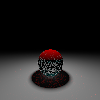
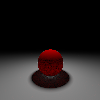
Improved GI implementation
Improved GI implementation
Cleaned up the "shadingFunctions.py file

diff --git a/shadingFunctions.py b/shadingFunctions.py
@@ -60,235 +60,6 @@ def shadeObject(point, lightPos, material, rayDir, hit, reflectionIter=1, bounce
     sceneCol = (material[0]*(dif + 0.15) + ((reflectionMaterial[0]*spec*2.0)*(1-material[1])))*atten
     return sceneCol#gi+sceneCol#(s[1])#material[0] * (s[1]*50) #sceneCol
 
-def shadeObjectGI(point, lightPos, material, rayDir, hit, reflectionIter=1, bounceWeight=1, bounces=[1, 1], bouncesOrig=[1, 1], samples=[1, 0]): # Calculate shading for a pixel
-    lightPos = np.array(lightPos)
-    point = np.array(point)
-    lightDir = np.array(normalize(lightPos-point))
-    normal = -np.array(calculateNormal(point)) if sdf_scene(point, outputMode=2) else np.array(calculateNormal(point))
-    lightDist = length(point, lightPos)
-
-    rayOffset = 0.02
-
-    #colour = np.array([1, 0, 0])
-
-    # Create simple diffuse shading
-    lambert = np.dot(normal, lightDir)
-    s = rayMarch(point+normal*rayOffset, lightDir, k=10, maxSteps=200, mode=[0, 5]) # Get shadow
-    #s[1] = (s[1]+7)*(1/7)#0 if s[0]-lightDist < -7 else 1
-
-    # Diffuse shading
-    dif = lambert * s[1]
-    dif = np.array([dif, dif, dif])
-
-    # Debugging Data
-    lambert = np.array([lambert, lambert, lambert])
-    s[1] = np.array([s[1], s[1], s[1]])
-
-    # Specular shading
-    if reflectionIter > 0:
-        # Trace reflection
-        # based on math.stackexchange.com/questions/13261/how-to-get-a-reflection-vector
-        reflectionVector = reflect(rayDir, normal)
-        reflectionDist, reflectionEnd, reflectionHit, reflectionMaterial = rayMarch(point+normal*rayOffset, reflectionVector, maxSteps=20, mode=[0, 1, 2, 6])
-    
-        # Specular shade
-        spec = shadeObject(reflectionEnd, lightPos, reflectionMaterial, reflectionVector, reflectionHit, reflectionIter=reflectionIter-1)
-        #spec = pow(max(np.dot(reflect(-lightDir, calculateNormal(reflectionEnd)), -reflectionVector), 0.0), 8.0)
-    else:
-        spec = 1.0
-        spec = np.array([spec, spec, spec])
-        reflectionEnd = point
-        reflectionMaterial = material
-        roughness = 1.0
-    #atten = (1.0 / ((lightDist)**2)) # Inverse square law
-    #atten = exp(-lightDist)*10 # Exponent of lightDist multiplied by 10 - similar to inverse square law but no infinity
-    atten = 1.0 / (1.0 + lightDist*0.2 + lightDist*lightDist*0.1) # copied - for reference
-    lightStrength = 1
-    atten = atten * lightStrength
-
-    # Below based on https://www.shadertoy.com/view/Xtt3Wn - it's kinda slow if you open the link
-
-    # Global Illumination / Diffuse Bounces
-    if bounces[1] > 0:
-        difGI = dif#np.array([0., 0., 0.])
-        difSample = np.array([0., 0., 0.])
-        samplesTaken = 1
-        for sample in range(samples[1]):
-            seed = (bounces[1] + sample)**2
-            rayDirGI = cosineWeightedHemisphere(calculateNormal(point), seed=seed)
-            pointGI, hitGI, stepsTakenGI, materialGI = rayMarch(point+calculateNormal(point)*0.02, rayDir, 50, mode=[1, 2, 4, 6])
-            bouncesNew = bounces
-            bouncesNew[1] = bouncesNew[1]-1
-            if hitGI:
-                calcSample = shadeObjectGI(pointGI, lightPos, materialGI, rayDirGI, hitGI, reflectionIter=bounces[0], bounces=bounces, bouncesOrig=bouncesOrig, samples=samples, bounceWeight=bounceWeight/2)
-                difSample = difSample + calcSample
-                samplesTaken += 1
-        difGI = difGI + ((difSample/samplesTaken)*bounceWeight)
-    else:
-        difGI = [1., 1., 1.]
-        materialGI = [[0., 0., 0.], 0.]
-
-    # [giDist, giDist, giDist]
-    sceneCol = (materialGI[0]*np.array(difGI))
-    #sceneCol = (material[0]*(dif + 0.15) + ((reflectionMaterial[0]*spec*2.0)*(1-material[1])))*atten
-    return sceneCol#sceneCol#gi+sceneCol#(s[1])#material[0] * (s[1]*50) #sceneCol
-
-def shadeObjectGIold(point, lightPos, material, rayDir, camPos, hit, reflectionIter=1, bounces=[1, 1], samples=[1, 1]): # Calculate shading for a pixel
-    rayOffset = 0.02
-
-    #colour = np.array([1, 0, 0])
-    # Save original ray data
-    oRayDir = rayDir
-    oCamPos = camPos
-
-    accumulatedColour = np.array([1., 1., 1.])
-
-    for x in range(bounces[1]):
-        lightPos = np.array(lightPos)
-        point = np.array(point)
-        lightDir = np.array(normalize(lightPos-point))
-        normal = -np.array(calculateNormal(point)) if sdf_scene(point, outputMode=2) else np.array(calculateNormal(point))
-        lightDist = length(point, lightPos)
-
-        # Create simple diffuse shading
-        lambert = np.dot(normal, lightDir)
-        s = rayMarch(point+normal*rayOffset, lightDir, k=10, maxSteps=200, mode=[0, 5]) # Get shadow
-        #s[1] = (s[1]+7)*(1/7)#0 if s[0]-lightDist < -7 else 1
-    
-        # Diffuse shading
-        dif = lambert * s[1]
-        dif = np.array([dif, dif, dif])
-    
-        # Debugging Data
-        lambert = np.array([lambert, lambert, lambert])
-        s[1] = np.array([s[1], s[1], s[1]])
-    
-        # Specular shading
-        if reflectionIter > 0:
-            # Trace reflection
-            # based on math.stackexchange.com/questions/13261/how-to-get-a-reflection-vector
-            reflectionVector = reflect(rayDir, normal)
-            reflectionDist, reflectionEnd, reflectionHit, reflectionMaterial = rayMarch(point+normal*rayOffset, reflectionVector, maxSteps=20, mode=[0, 1, 2, 6])
-        
-            # Specular shade
-            spec = shadeObject(reflectionEnd, lightPos, reflectionMaterial, reflectionVector, reflectionHit, reflectionIter=reflectionIter-1)
-            #spec = pow(max(np.dot(reflect(-lightDir, calculateNormal(reflectionEnd)), -reflectionVector), 0.0), 8.0)
-        else:
-            spec = 1.0
-            spec = np.array([spec, spec, spec])
-            reflectionEnd = point
-            reflectionMaterial = material
-            roughness = 1.0
-        #atten = (1.0 / ((lightDist)**2)) # Inverse square law
-        #atten = exp(-lightDist)*10 # Exponent of lightDist multiplied by 10 - similar to inverse square law but no infinity
-        atten = 1.0 / (1.0 + lightDist*0.2 + lightDist*lightDist*0.1) # copied - for reference
-        lightStrength = 1
-        atten = atten * lightStrength
-        sceneCol = (material[0]*(dif + 0.15) + ((reflectionMaterial[0]*spec*2.0)*(1-material[1])))*atten
-        # Add ray colour to accumulatedColour
-        weight = 1 if x==0 else 0.5 # Calculate ray weight
-        accumulatedColour += sceneCol#*weight
-
-        # Calculate new ray
-        avgMat = [np.array([0, 0, 0]), 0]
-        for sampleIndex in range(samples[1]):
-            camPos = point
-            seed = sampleIndex+accumulatedColour[0]#*(rayDir[0]+rayDir[1]-rayDir[2])
-            rayDir = cosineWeightedHemisphere(calculateNormal(point), seed=seed)
-            point, material = rayMarch(camPos+normal*rayOffset, rayDir, 50, mode=[1, 6])
-            #avgMat[0] = np.array(avgMat[0]) + material[0]
-            #avgMat[1] += material[1]
-
-        
-        # Calculate average material from samples
-        #avgMat[0] = np.array(avgMat[0]) / (samples[1]+1)
-        #avgMat[1] /= (samples[1]+1)
-
-       #material = avgMat
-
-    if max(accumulatedColour) > 1:
-        print(accumulatedColour)
-
-    sceneCol = accumulatedColour
-    return sceneCol#material[0]#gi+sceneCol#(s[1])#material[0] * (s[1]*50) #sceneCol
-
-def shadeObjectGInew(point, lightPos, material, rayDir, hit, reflectionIter=1, bounces=[1, 1], samples=[1, 1]): # Calculate shading for a pixel
-    if not hit:
-        return np.array([0, 0, 0])
-    origPoint = point
-    origRayDir = rayDir
-    sceneColListTotal = []
-    for sample in range(samples[1]):
-        sceneColList = []
-        for bounce in range(bounces[1]+1):
-            giSeed = sample+bounce+(origPoint[0]+origPoint[1]+origPoint[2])
-            lightPos = np.array(lightPos)
-            point = np.array(point)
-            lightDir = np.array(normalize(lightPos-point))
-            normal = -np.array(calculateNormal(point)) if sdf_scene(point, outputMode=2) else np.array(calculateNormal(point))
-            lightDist = length(point, lightPos)
-        
-            rayOffset = 0.02
-        
-            #colour = np.array([1, 0, 0])
-        
-            # Create simple diffuse shading
-            lambert = np.dot(normal, lightDir)
-            s = rayMarch(point+normal*rayOffset, lightDir, k=10, maxSteps=200, mode=[0, 5]) # Get shadow
-            #s[1] = (s[1]+7)*(1/7)#0 if s[0]-lightDist < -7 else 1
-        
-            # Diffuse shading
-            dif = lambert * s[1]
-            dif = np.array([dif, dif, dif])
-        
-            # Debugging Data
-            lambert = np.array([lambert, lambert, lambert])
-            s[1] = np.array([s[1], s[1], s[1]])
-        
-            # Specular shading
-            if reflectionIter > 0:
-                # Trace reflection
-                # based on math.stackexchange.com/questions/13261/how-to-get-a-reflection-vector
-                reflectionVector = reflect(rayDir, normal)
-                reflectionDist, reflectionEnd, reflectionHit, reflectionMaterial = rayMarch(point+normal*rayOffset, reflectionVector, maxSteps=20, mode=[0, 1, 2, 6])
-            
-                # Specular shade
-                spec = shadeObject(reflectionEnd, lightPos, reflectionMaterial, reflectionVector, reflectionHit, reflectionIter=reflectionIter-1)
-                #spec = pow(max(np.dot(reflect(-lightDir, calculateNormal(reflectionEnd)), -reflectionVector), 0.0), 8.0)
-            else:
-                spec = 1.0
-                spec = np.array([spec, spec, spec])
-                reflectionEnd = point
-                reflectionMaterial = material
-                roughness = 1.0
-            #atten = (1.0 / ((lightDist)**2)) # Inverse square law
-            #atten = exp(-lightDist)*10 # Exponent of lightDist multiplied by 10 - similar to inverse square law but no infinity
-            atten = 1.0 / (1.0 + lightDist*0.2 + lightDist*lightDist*0.1) # copied - for reference
-            lightStrength = 1
-            atten = atten * lightStrength
-        
-            # [giDist, giDist, giDist]
-            sceneCol = (material[0]*(dif + 0.15) + ((reflectionMaterial[0]*spec*2.0)*(1-material[1])))*atten
-            sceneColList.append(sceneCol)
-
-            # Calculate next ray
-            rayDir = cosineWeightedHemisphere(calculateNormal(point), seed=giSeed)
-            point, hit, stepsTaken, material = rayMarch(point+calculateNormal(point)*0.02, rayDir, 50, mode=[1, 2, 4, 6])
-        #sceneCol = np.array([0, 0, 0])
-        sceneCol = sceneColList[0]
-        colWeight = 1
-        for col in sceneColList[::-1]:
-            sceneCol = (sceneCol+col)/2#sceneCol+(col*colWeight)
-            colWeight *= 0.8
-        sceneColListTotal.append(sceneCol)
-    #sceneCol = np.array([0, 0, 0])
-    sceneCol = sceneColListTotal[0]
-    colWeight = 1
-    for col in sceneColListTotal[::-1]:
-        sceneCol = (sceneCol+col)/2#sceneCol+(col*colWeight)
-        colWeight *= 0.8
-    return sceneCol#gi+sceneCol#(s[1])#material[0] * (s[1]*50) #sceneCol
-
 def shadeObjectSB(point, lightPos, material, rayDir, hit, reflectionIter=1, bounces=[1, 1], samples=[1, 1]): # Calculate shading for a pixel
     lightPos = np.array(lightPos)
     point = np.array(point)
@@ -313,22 +84,6 @@ def shadeObjectSB(point, lightPos, material, rayDir, hit, reflectionIter=1, boun
     lambert = np.array([lambert, lambert, lambert])
     s[1] = np.array([s[1], s[1], s[1]])
 
-    # Specular shading
-    if reflectionIter > 0:
-        # Trace reflection
-        # based on math.stackexchange.com/questions/13261/how-to-get-a-reflection-vector
-        reflectionVector = reflect(rayDir, normal)
-        reflectionDist, reflectionEnd, reflectionHit, reflectionMaterial = rayMarch(point+normal*rayOffset, reflectionVector, maxSteps=20, mode=[0, 1, 2, 6])
-    
-        # Specular shade
-        spec = shadeObject(reflectionEnd, lightPos, reflectionMaterial, reflectionVector, reflectionHit, reflectionIter=reflectionIter-1)
-        #spec = pow(max(np.dot(reflect(-lightDir, calculateNormal(reflectionEnd)), -reflectionVector), 0.0), 8.0)
-    else:
-        spec = 1.0
-        spec = np.array([spec, spec, spec])
-        reflectionEnd = point
-        reflectionMaterial = material
-        roughness = 1.0
     #atten = (1.0 / ((lightDist)**2)) # Inverse square law
     #atten = exp(-lightDist)*10 # Exponent of lightDist multiplied by 10 - similar to inverse square law but no infinity
     atten = 1.0 / (1.0 + lightDist*0.2 + lightDist*lightDist*0.1) # copied - for reference
@@ -346,12 +101,11 @@ def shadeObjectSB(point, lightPos, material, rayDir, hit, reflectionIter=1, boun
         difGI = difGI + difGInew
     # Proccess difGI
     difGI /= samples[1] # Monte carlo integration
-    difGI = difGI # Reduce affect of GI
-    difGI = np.clip(difGI, 0, 1) # Clamp to 0, 1 range
+    difGI = difGI # Reduce affect of GI - disabled
+    difGI = np.clip(difGI, 0, 1) # Clamp to 0, 1 range - no effect
 
     # [giDist, giDist, giDist]
-    sceneCol = (material[0]*(dif + 0.15) + ((reflectionMaterial[0]*spec*2.0)*(1-material[1])))*atten
-    directDif = (dif * atten) * material[0]
-    #return difGI+sceneCol#sceneCol+difGI#gi+sceneCol#(s[1])#material[0] * (s[1]*50) #sceneCol
-    return directDif + difGI
-    #return difGI + directDif
+    #sceneCol = (material[0]*(dif + 0.15) + ((reflectionMaterial[0]*spec*2.0)*(1-material[1])))*atten
+    directDif = np.clip((dif * atten), 0, 1)# * material[0]
+
+    return (directDif + difGI) * material[0]

diff --git a/Renderer.py b/Renderer.py
@@ -84,7 +84,7 @@ def renderPixel(x, y, resolution, cameraPosition, steps, lightPos, aspectRatio):
     rayPoint, hit, stepsTaken, material = rayMarch(cameraPosition, rayDir, steps, mode=[1, 2, 4, 6])
     #return [rayMarch(cameraPosition, rayDir, steps), 0, 0]
     bounces=[0, 1] # order - glossy, diffuse
-    samples=[1, 1] # order - Same as above
+    samples=[1, 10] # order - Same as above
     #dif = shadeObject(rayPoint, lightPos, material, rayDir, hit, reflectionIter=bounces[0], bounces=bounces)
     #dif = shadeObjectGI(rayPoint, lightPos, material, rayDir, hit, reflectionIter=bounces[0], bounces=bounces, bouncesOrig=bounces, samples=samples)
     #dif = shadeObjectGIold(rayPoint, lightPos, material, rayDir, cameraPosition, hit, reflectionIter=bounces[0], bounces=bounces)
